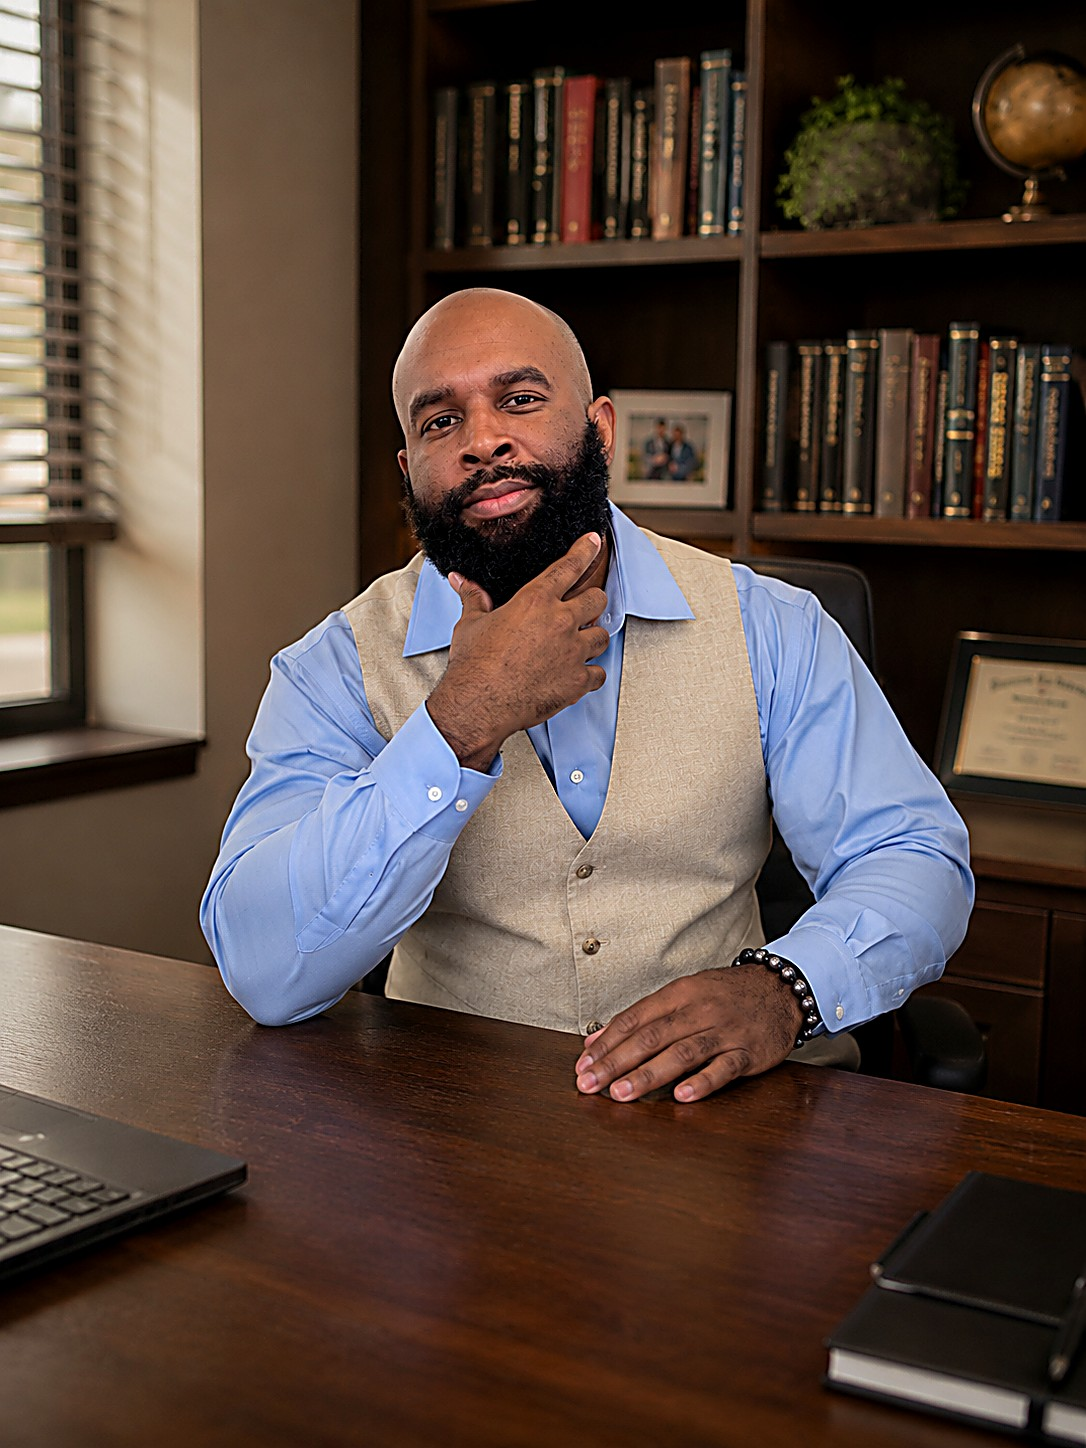
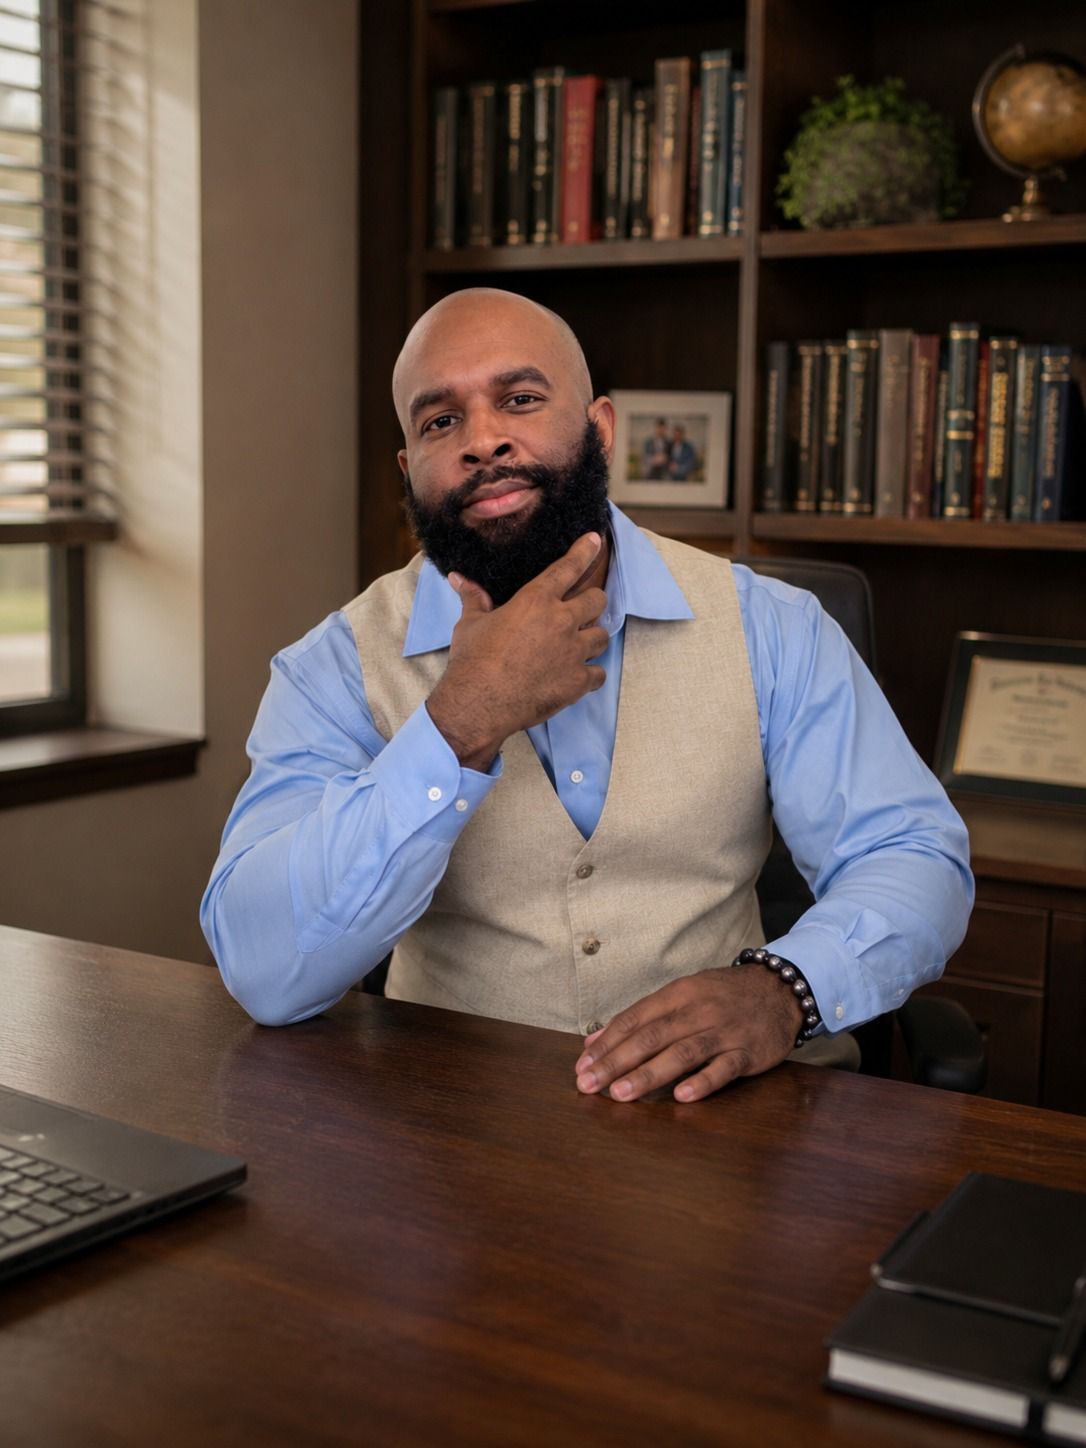
UX fixes: disable hero scroll-fade on mobile (photo was fading before fully visible); natural photo treatment (remove over-sharpen cutout look)

diff --git a/index.html b/index.html
@@ -511,7 +511,7 @@
 
   // hero parallax — content drifts as you scroll
   (function(){var w=document.querySelector('.hero .wrap');if(!w)return;
-   if(matchMedia('(prefers-reduced-motion:reduce)').matches)return;
+   if(innerWidth<=900||matchMedia('(prefers-reduced-motion:reduce)').matches)return;
    var t=false;addEventListener('scroll',function(){if(t)return;t=true;
      requestAnimationFrame(function(){var y=Math.min(scrollY,700);
        w.style.transform='translateY('+(y*0.16)+'px)';w.style.opacity=String(Math.max(0,1-y/620));t=false;});},{passive:true});})();